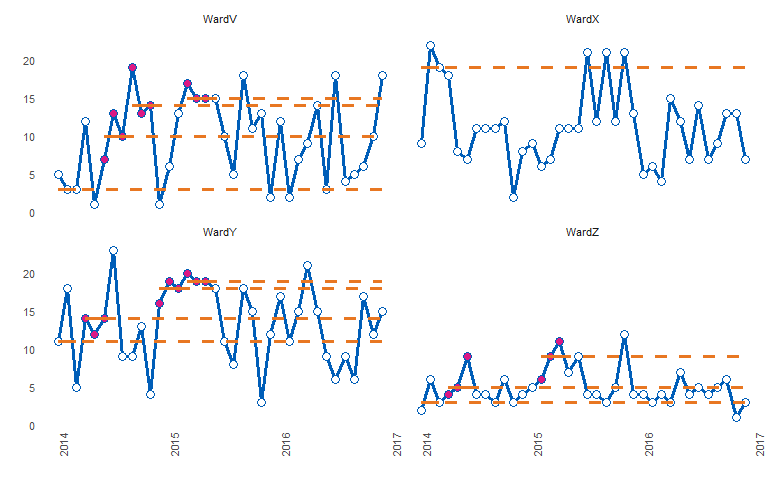
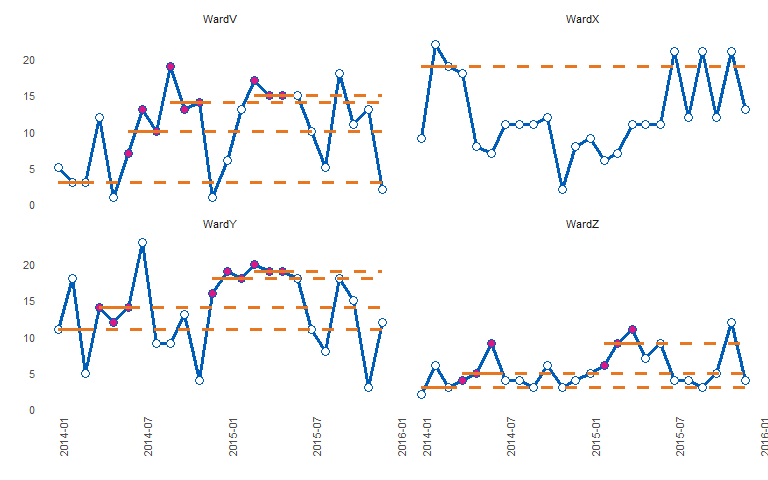
readme

diff --git a/README.md b/README.md
@@ -177,9 +177,9 @@ The latter 3 items can be retrieved from the list and used to create new plots (
 Don't try this at home - setting runlength of 3 to show that successive runs are identified:
 
 ``` r
-
+library(dplyr)
 signals %>% 
-  dplyr::filter(date <= '2016-12-01') %>% 
+  dplyr::filter(date <= '2015-12-01') %>% 
   runcharter(med_rows = 3,
              runlength = 3, 
              direction = "above",
